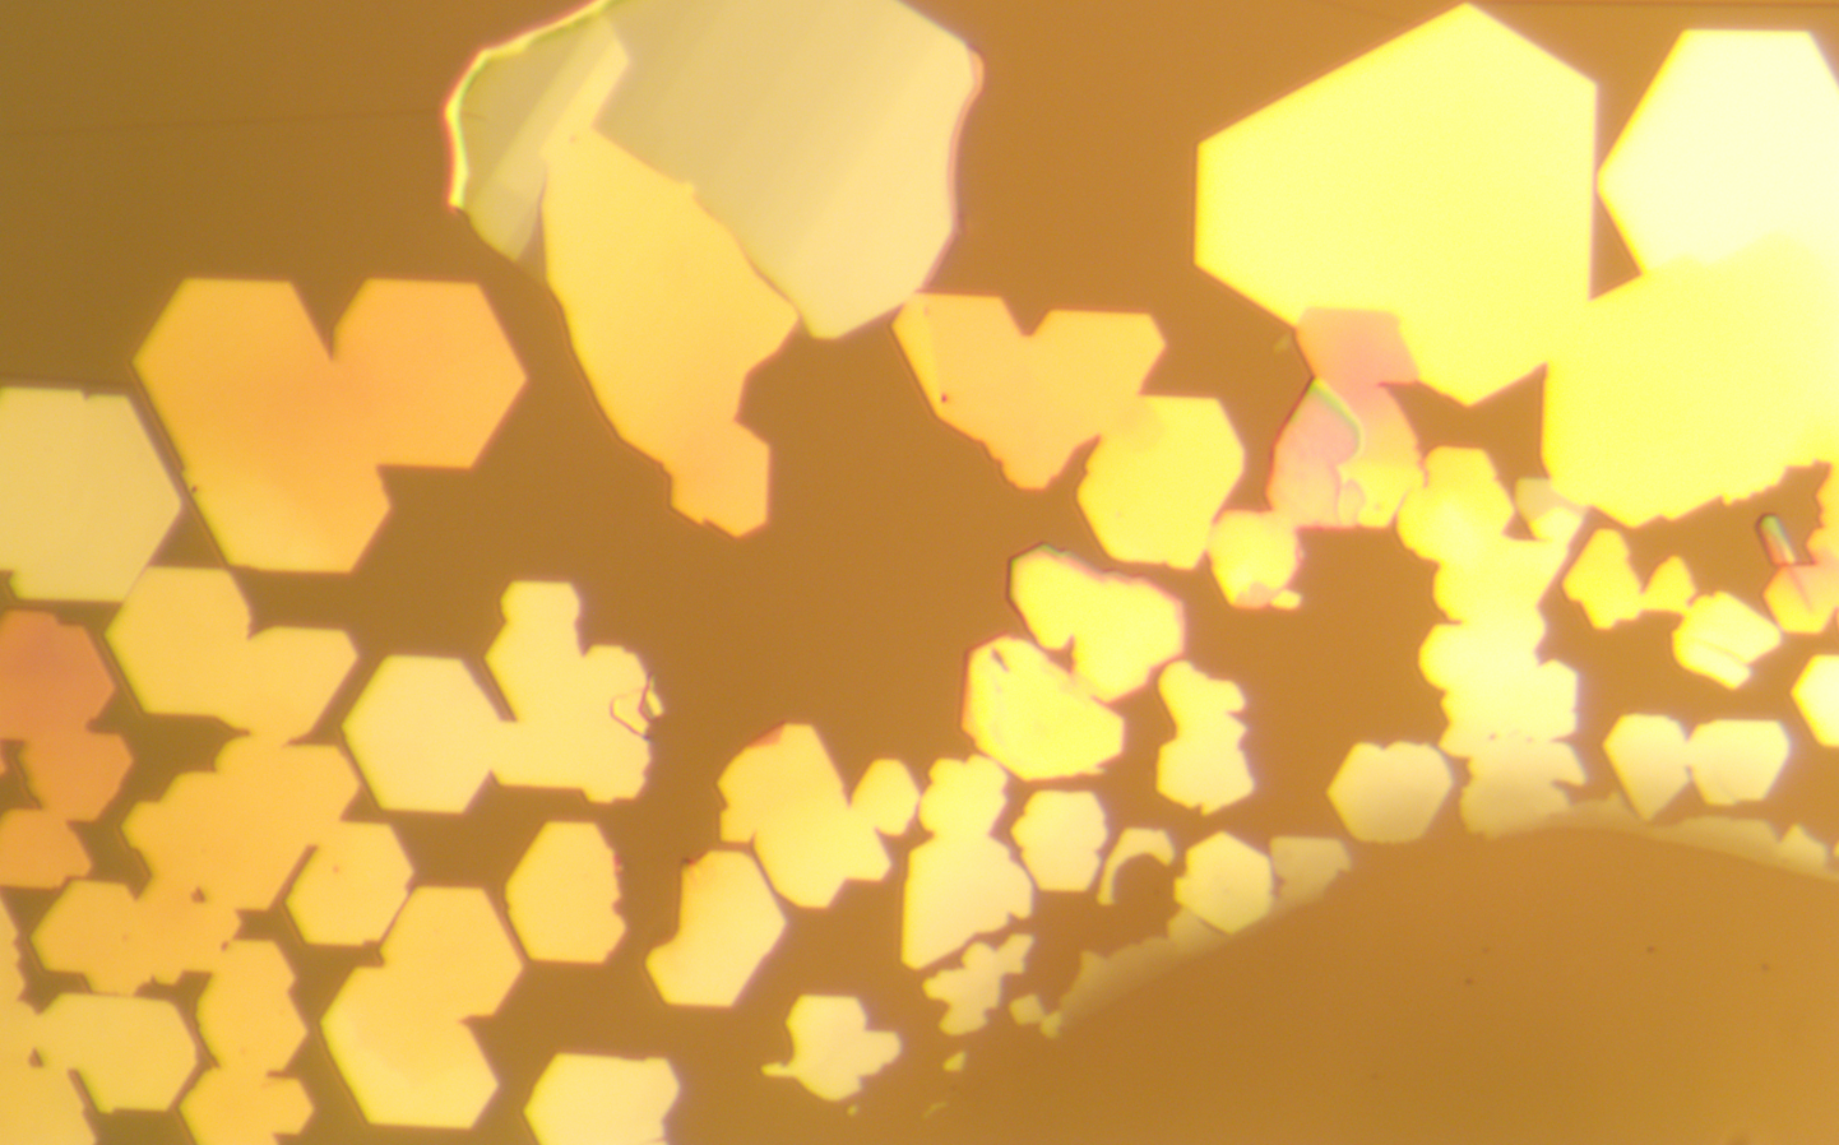
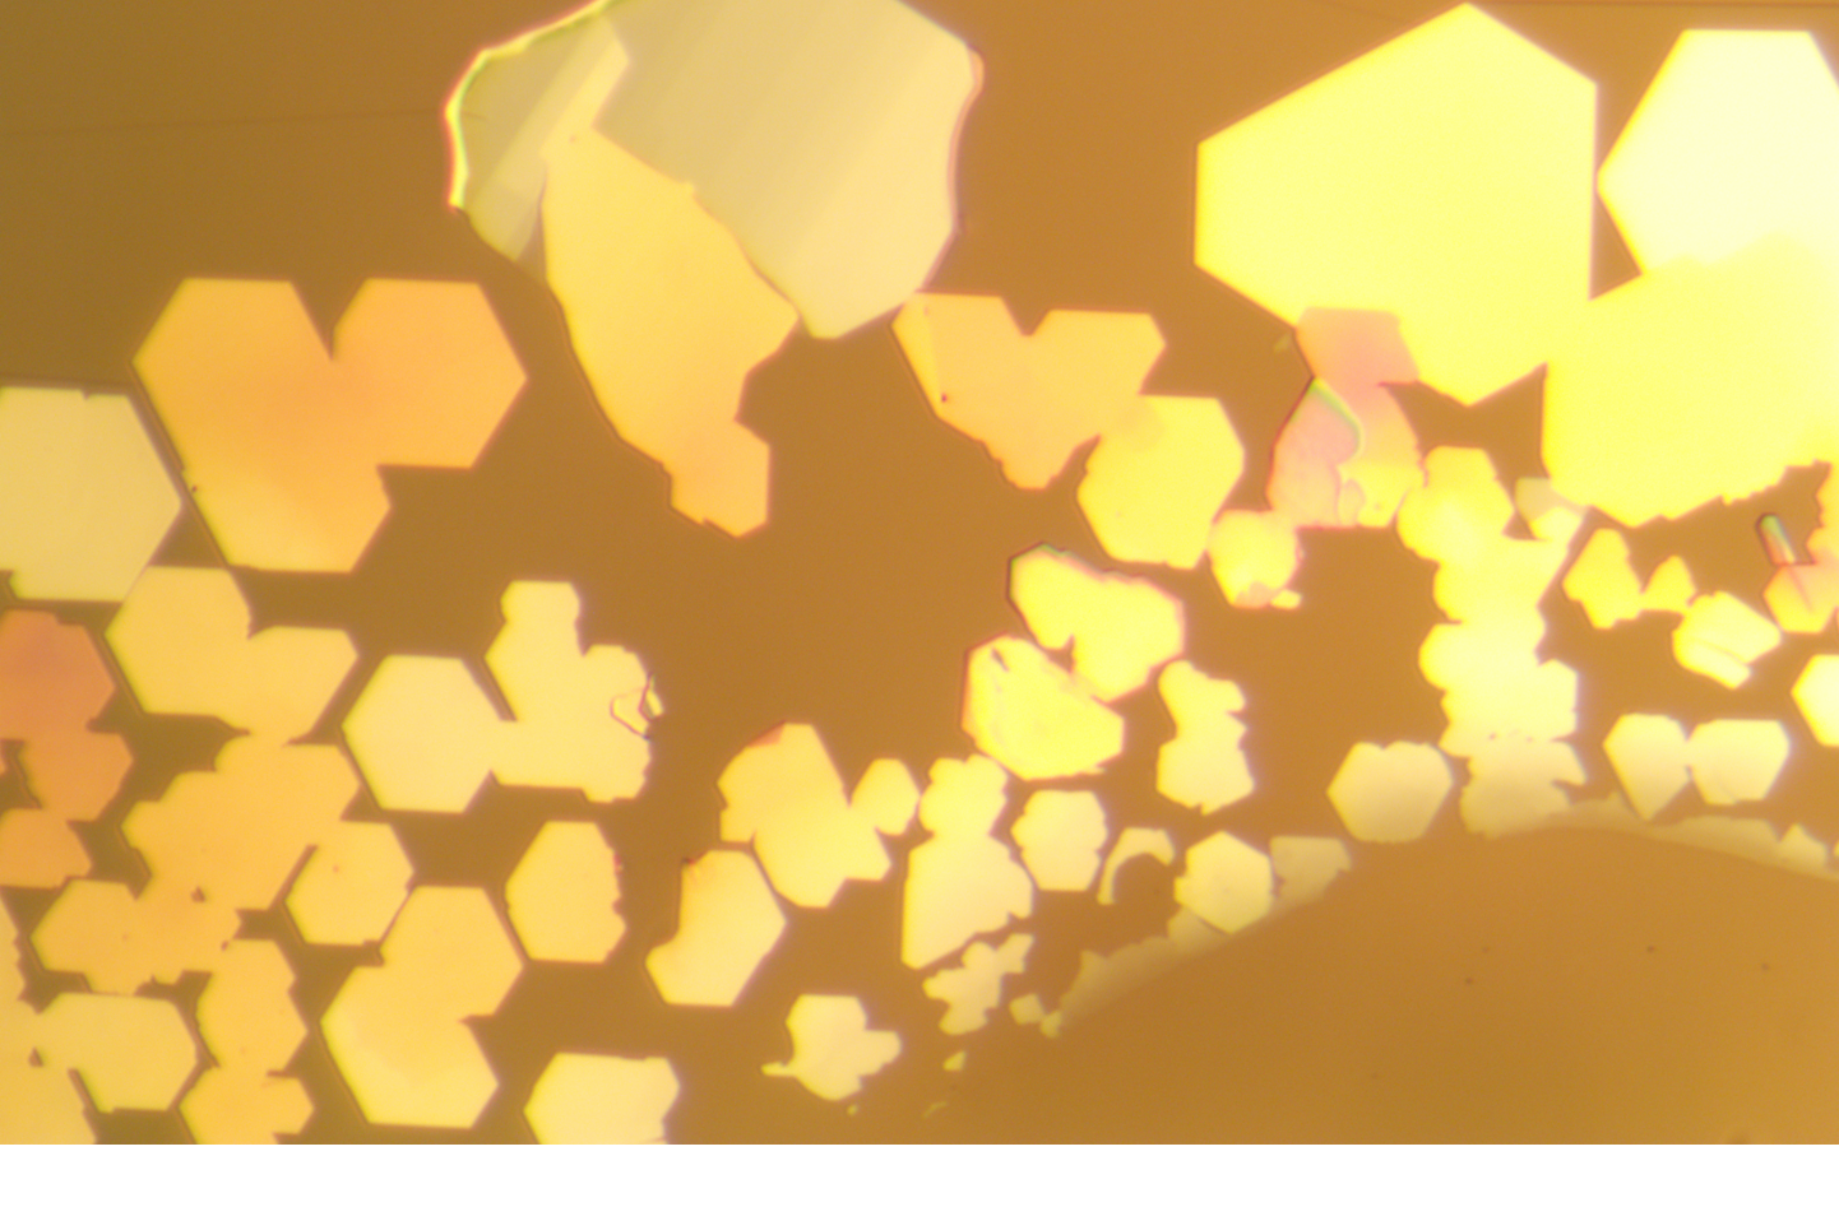
changed image formatting

diff --git a/index.html b/index.html
@@ -56,7 +56,7 @@
 
 								<section>
 									<h2 id="manyBodyQuantumSystems">Many-body quantum physics</h2>
-									<span class="image right"><img src="images/cooldiamond.png" alt="" /></span>
+									<span class="image left" style="width: 500px; display: inline-block;"><img src="images/manybody.png" alt="" /></span>
 									<p>Although materials are incredibly complex — containing a huge number of interacting electrons and ions — in many scenarios they behave like a collection of weakly-interacting particles whose properties are dictated by symmetries. This weakly-interacting description serves as the basis of our understanding of many materials, including, for example, silicon — the building block of all modern computers.</p>
 									<p>Our lab is interested in scenarios where interactions between constituent particles in a solid become strong enough to fundamentally reshape how it behaves. These strongly-interacting quantum systems appear in a a variety of settings, including the parent state of high-temperature superconductors, materials close to a quantum phase transition, and theoretically in low-dimensional spin systems. In addition to pure fundamental interest, such systems have been proposed as a platform for next-generation quantum information processing, memory, and communication.</p>
 								</section>